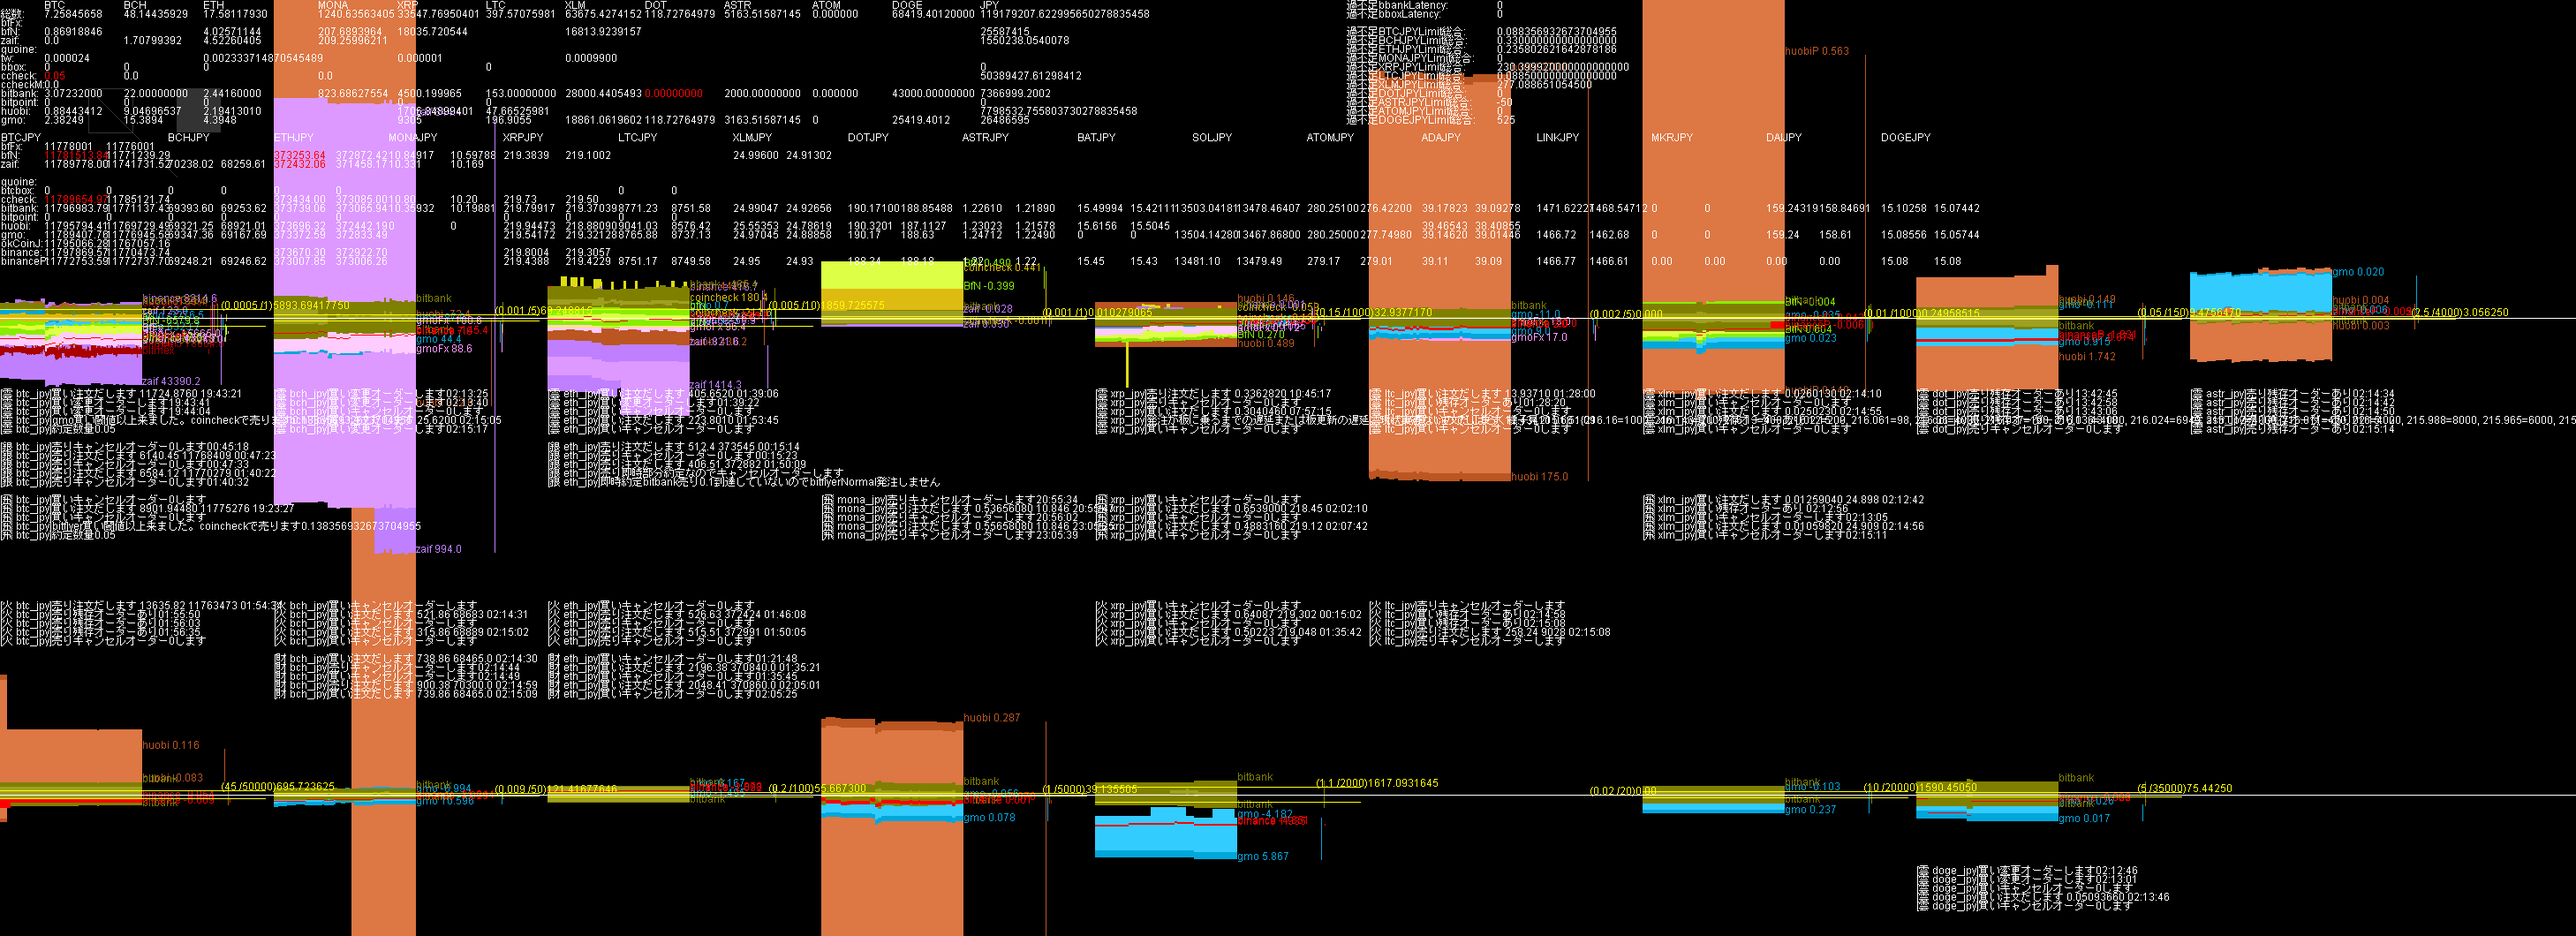
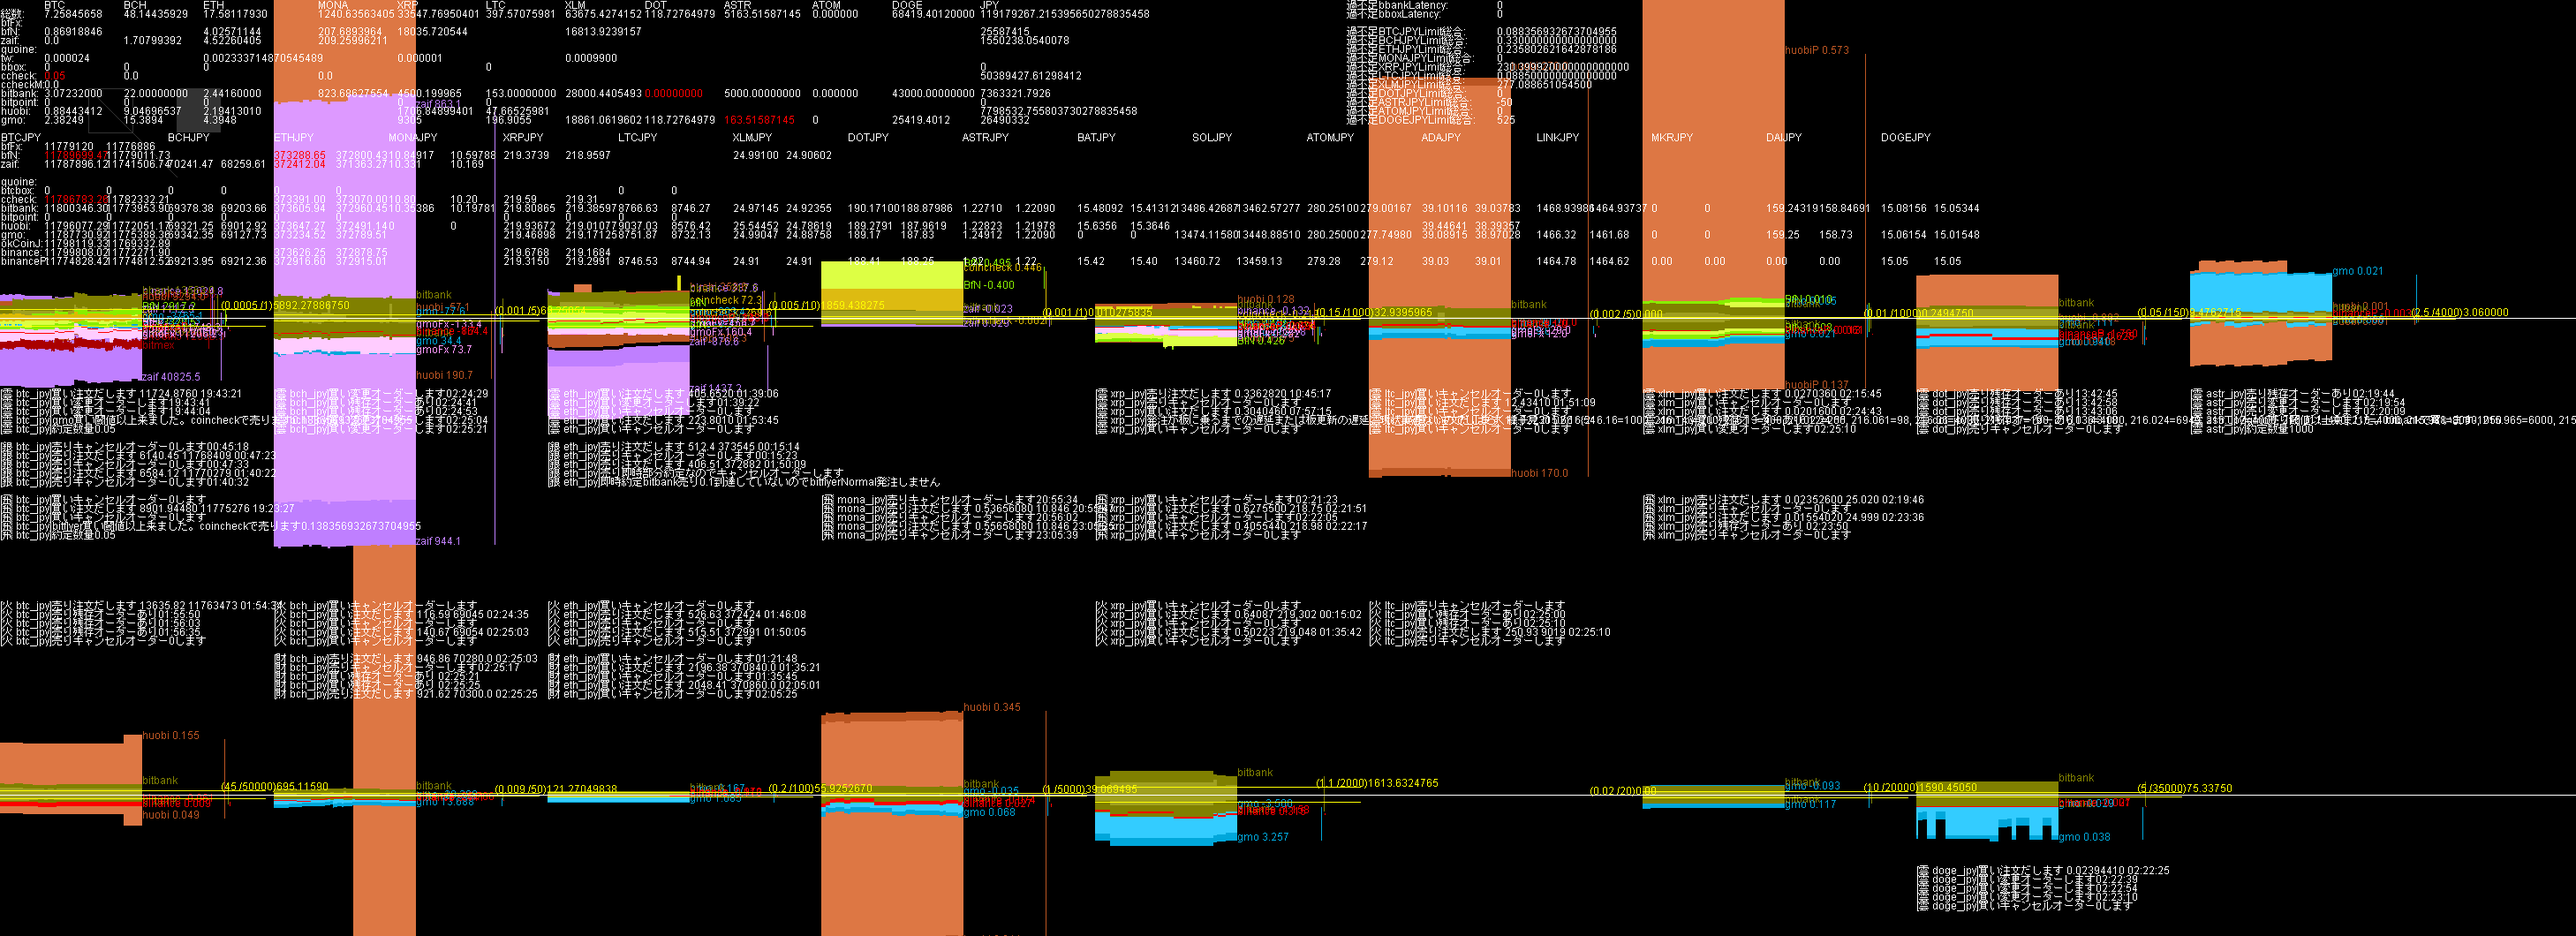
Update HTML file via Java

diff --git a/ca.html b/ca.html
@@ -16,6 +16,9 @@ th { background-color: #222; text-align: center; }
     <tr><th>ddhhmm</th><th>bfJPY</th><th>財JPY</th><th>ccJPY</th><th>銀JPY</th><th>火JPY</th><th>雲JPY</th><th>bfBTC</th><th>財BTC</th><th>ccBTC</th><th>銀BTC</th><th>火BTC</th><th>雲BTC</th><th>bfBCH</th><th>財BCH</th><th>ccBCH</th><th>銀BCH</th><th>火BCH</th><th>雲BCH</th><th>bfETH</th><th>財ETH</th><th>ccETH</th><th>銀ETH</th><th>火ETH</th><th>雲ETH</th><th>bfMONA</th><th>財MONA</th><th>ccMONA</th><th>銀MONA</th><th>火MONA</th><th>雲MONA</th><th>bfXRP</th><th>財XRP</th><th>ccXRP</th><th>銀XRP</th><th>火XRP</th><th>雲XRP</th><th>bfLTC</th><th>財LTC</th><th>ccLTC</th><th>銀LTC</th><th>火LTC</th><th>雲LTC</th><th>bfXLM</th><th>財XLM</th><th>ccXLM</th><th>銀XLM</th><th>火XLM</th><th>雲XLM</th><th>bfDOT</th><th>財DOT</th><th>ccDOT</th><th>銀DOT</th><th>火DOT</th><th>雲DOT</th><th>bfASTR</th><th>財ASTR</th><th>ccASTR</th><th>銀ASTR</th><th>火ASTR</th><th>雲ASTR</th><th>bfDOGE</th><th>財DOGE</th><th>ccDOGE</th><th>銀DOGE</th><th>火DOGE</th><th>雲DOGE</th>    </tr>  </thead>
   <tbody>
     <tr>
+<td>160225</td><td>02558</td><td>00155</td><td>05038</td><td>00736</td><td>00779</td><td>02649</td><td>00.87</td><td>00.00</td><td>00.05</td><td>03.07</td><td>00.88</td><td>02.38</td><td>00.00</td><td>01.71</td><td>00.00</td><td>22.00</td><td>09.05</td><td>15.39</td><td>04.03</td><td>04.52</td><td>00.00</td><td>02.44</td><td>02.19</td><td>04.39</td><td>0207.7</td><td>0209.3</td><td>0000.0</td><td>0823.7</td><td>0000.0</td><td>0000.0</td><td>18036</td><td>00000</td><td>00000</td><td>04500</td><td>01707</td><td>09305</td><td>00.00</td><td>00.00</td><td>00.00</td><td>153.00</td><td>47.67</td><td>196.91</td><td>00.00</td><td>00.00</td><td>00.00</td><td>28000.44</td><td>00.00</td><td>18861.06</td><td>00.00</td><td>00.00</td><td>00.00</td><td><span style="color: #ff69b4">00.00</span></td><td>00.00</td><td>118.73</td><td>00.00</td><td>00.00</td><td>00.00</td><td>5000.00</td><td>00.00</td><td>163.52</td><td>00.00</td><td>00.00</td><td>00.00</td><td>43000.00</td><td>00.00</td><td>25419.40</td>
+    </tr>
+    <tr>
 <td>160215</td><td>02558</td><td>00155</td><td>05038</td><td>00736</td><td>00779</td><td>02648</td><td>00.87</td><td>00.00</td><td>00.05</td><td>03.07</td><td>00.88</td><td>02.38</td><td>00.00</td><td>01.71</td><td>00.00</td><td>22.00</td><td>09.05</td><td>15.39</td><td>04.03</td><td>04.52</td><td>00.00</td><td>02.44</td><td>02.19</td><td>04.39</td><td>0207.7</td><td>0209.3</td><td>0000.0</td><td>0823.7</td><td>0000.0</td><td>0000.0</td><td>18036</td><td>00000</td><td>00000</td><td>04500</td><td>01707</td><td>09305</td><td>00.00</td><td>00.00</td><td>00.00</td><td>153.00</td><td>47.67</td><td>196.91</td><td>00.00</td><td>00.00</td><td>00.00</td><td>28000.44</td><td>00.00</td><td>18861.06</td><td>00.00</td><td>00.00</td><td>00.00</td><td><span style="color: #ff69b4">00.00</span></td><td>00.00</td><td>118.73</td><td>00.00</td><td>00.00</td><td>00.00</td><td>2000.00</td><td>00.00</td><td>3163.52</td><td>00.00</td><td>00.00</td><td>00.00</td><td>43000.00</td><td>00.00</td><td>25419.40</td>
     </tr>
     <tr>
